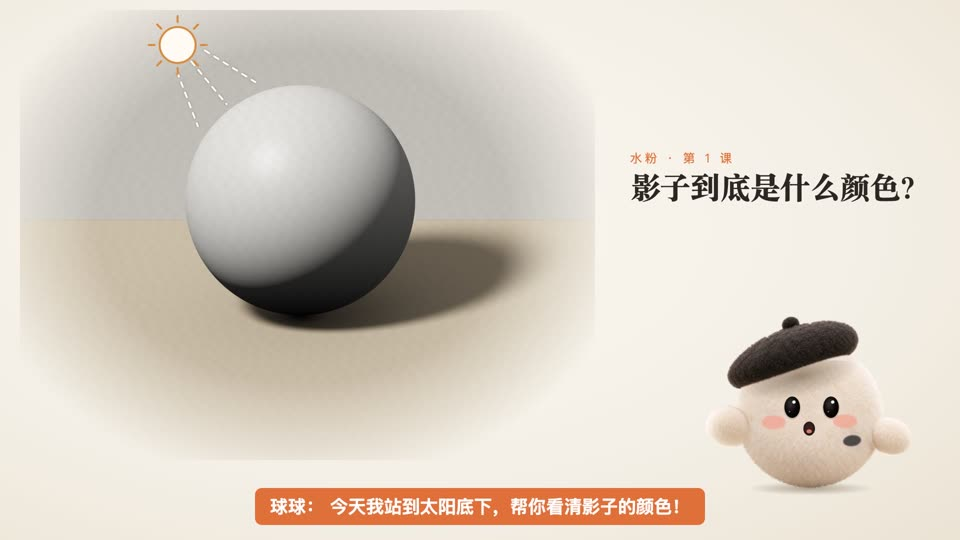
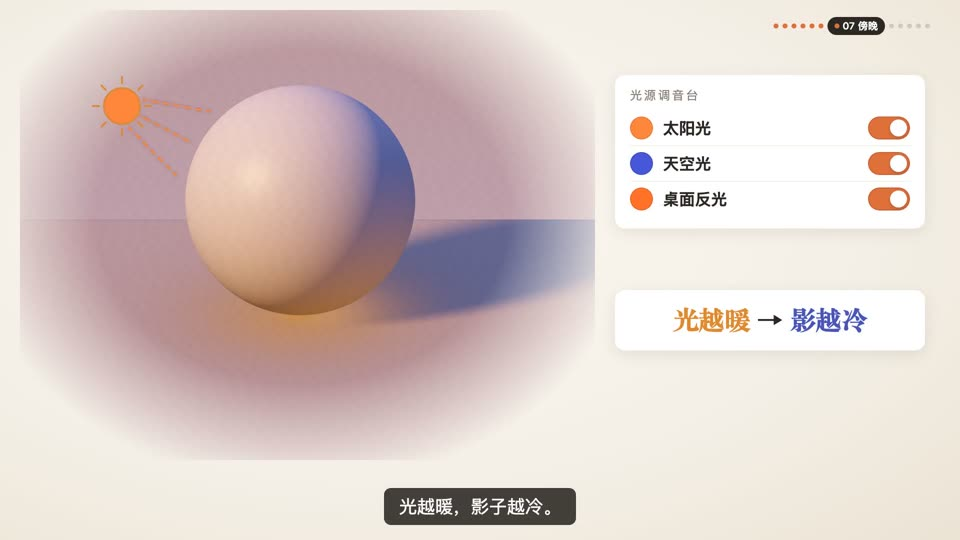
水粉两集换成彩色封面，和素描区分开

diff --git a/index.html b/index.html
@@ -469,8 +469,8 @@ const VIDEOS = [
   {id: 'e9',   kind: '版画', title: '版画为什么要“反着刻”？',         dur: '2:32', src: 'videos/e9-print.mp4',          poster: 'posters/e9.jpg'},
   {id: 'e8',   kind: '油画', title: '名画下面，为什么藏着另一幅画？', dur: '2:28', src: 'videos/e8-hidden.mp4',        poster: 'posters/e8.jpg'},
   {id: 'e6',   kind: '油画', title: '伦勃朗的光，为什么像舞台追光？', dur: '2:09', src: 'videos/e6-rembrandt.mp4',     poster: 'posters/e6.jpg'},
-  {id: 's2e5', kind: '水粉', title: '这两个灰，其实是同一个颜色',     dur: '2:19', src: 'videos/s2e5-same-gray.mp4',    poster: 'posters/s2e5.jpg'},
-  {id: 's2e1', kind: '水粉', title: '影子到底是什么颜色？',           dur: '2:34', src: 'videos/s2e1-shadow-color.mp4', poster: 'posters/s2e1.jpg'},
+  {id: 's2e5', kind: '水粉', title: '这两个灰，其实是同一个颜色',     dur: '2:19', src: 'videos/s2e5-same-gray.mp4',    poster: 'posters/s2e5.jpg?v=2'},
+  {id: 's2e1', kind: '水粉', title: '影子到底是什么颜色？',           dur: '2:34', src: 'videos/s2e1-shadow-color.mp4', poster: 'posters/s2e1.jpg?v=2'},
   {id: 's1e2', kind: '素描', title: '为什么老师总叫你眯眼看？',       dur: '2:32', src: 'videos/s1e2-squint.mp4',       poster: 'posters/s1e2.jpg'},
   {id: 's1e1', kind: '素描', title: '为什么球体有五大调子？',         dur: '2:26', src: 'videos/s1e1-sphere-tones.mp4', poster: 'posters/s1e1.jpg'},
 ];
